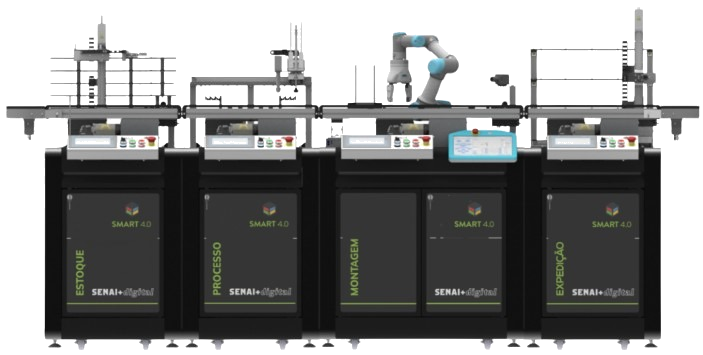
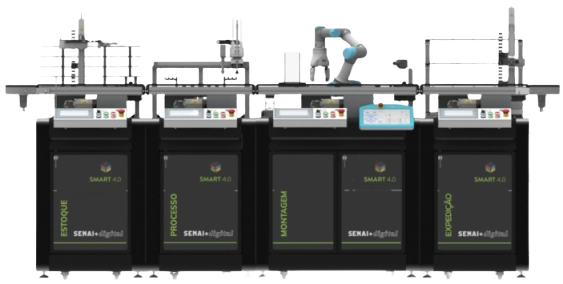
css da loja ajustado para as paletas de cores do resto do projeto

diff --git a/AppSmartWeb_Projeto/AppSmartWeb_Projeto-Base/loja-pedido/src/main/resources/templates/processo_bancada.html b/AppSmartWeb_Projeto/AppSmartWeb_Projeto-Base/loja-pedido/src/main/resources/templates/processo_bancada.html
@@ -1,70 +1,78 @@
 <!DOCTYPE html>
-<html lang="pt-br" xmlns:th="http://www.thymeleaf.org" >
+<html lang="pt-br" xmlns:th="http://www.thymeleaf.org">
 
 <head>
     <meta charset="UTF-8">
+    <meta name="viewport" content="width=device-width, initial-scale=1.0, maximum-scale=1.0">
     <title>Pedidos de Blocos</title>
     <link rel="stylesheet" th:href="@{/css/styleProcessoBancada.css}">
     <link rel="stylesheet" th:href="@{/css/headerIsolado.css}" href="/css/headerIsolado.css">
     <link rel="stylesheet" href="https://fonts.googleapis.com/css2?family=Material+Symbols+Rounded" />
     <link rel="stylesheet" href="https://cdnjs.cloudflare.com/ajax/libs/font-awesome/5.15.3/css/all.min.css">
+    <style>
+        /* Adicionando estilos inline para garantir as alterações */
+        .bancada-container img {
+            width: 90%;
+            max-width: 1200px;
+            height: auto;
+            margin: 10px auto;
+            display: block;
+        }
+        
+        .progress-shopee {
+            width: 95%;
+            max-width: 1200px;
+            margin: 20px auto;
+            box-sizing: border-box;
+        }
+        
+        body {
+            overflow-x: hidden;
+            padding-bottom: 20px;
+        }
+    </style>
 </head>
 
 <body>
 
- <!-- CABEÇALHO -->
- <header>
-    <div class="left-header">
-        <img src="fotosenai (1).png" alt="Logo Cubo">
-        <h1>Sistema de Gestão da Bancada</h1>
-    </div>
-    <div class="right-header">
-        <img src="senailogo.png" alt="Logo SENAI">
-    </div>
-    <div class="wifi-fixed">
-    <i class="fas fa-signal"></i> <!-- Ícone de barras de sinal -->
-    <span class="wifi-status">Desconectado</span>
-</div>
-</header>
+    <!-- CABEÇALHO -->
+    <header>
+        <div class="left-header">
+            <img src="fotosenai (1).png" alt="Logo Cubo">
+            <h1>Sistema de Gestão da Bancada</h1>
+        </div>
+        <div class="right-header">
+            <img src="senailogo.png" alt="Logo SENAI">
+        </div>
+        <div class="wifi-fixed">
+            <i class="fas fa-signal"></i> <!-- Ícone de barras de sinal -->
+            <span class="wifi-status">Desconectado</span>
+        </div>
+    </header>
 
     <div class="bancada-container">
-        <div class="bancada-item">
-                <img th:src="@{/image/Bancada_parte_1.png}" alt="Estoque">
-        </div>
-        <div class="bancada-item">
-                <img th:src="@{/image/Bancada_parte_2.png}" alt="Processo">
-        </div>
-
-        <div class="bancada-item">
-                <img th:src="@{/image/Bancada_parte_3.png}" alt="Montagem">
-        </div>
-
-        <div class="bancada-item">
-                <img th:src="@{/image/Bancada_parte_4.png}" alt="Expedição">
-        </div>
+        <img th:src="@{/image/bancada.png}" alt="bancada">
     </div>
 
-     <div class="barras-container">
-
+    <div class="barras-container">
         <div class="progress-shopee">
-
             <h3 class="progress-title">Montagem do Bloco</h3>
-        
             <div id="stepper" class="progress-stepper">
                 <!-- Etapas serão inseridas dinamicamente aqui -->
             </div>
-        
             <h4 class="progress-subtitle">Etapas Internas</h4>
             <div id="etapa-texto" class="etapa-texto">Iniciando...</div>
-        
         </div>
-                  <!-- BOTÃO VOLTAR - FLUTUANTE ACIMA DO ESTOQUE -->
-    <button class="btn-voltar-flutuante" onclick="window.location.href='/'">
-        <span class="material-symbols-rounded">arrow_back</span> Voltar
-    </button>
+        
+        <!-- BOTÃO VOLTAR - FLUTUANTE ACIMA DO ESTOQUE -->
+        <button class="btn-voltar-flutuante" onclick="window.location.href='/'">
+            <span class="material-symbols-rounded">arrow_back</span> Voltar
+        </button>
+    </div>
+    
     <script th:src="@{/js/processo_bancada.js}"></script>
     <script src="/js/statusConexao.js"></script>
 
 </body>
 
-</html>
+</html> 

diff --git a/AppSmartWeb_Projeto/AppSmartWeb_Projeto-Base/loja-pedido/src/main/resources/static/css/styleProcessoBancada.css b/AppSmartWeb_Projeto/AppSmartWeb_Projeto-Base/loja-pedido/src/main/resources/static/css/styleProcessoBancada.css
@@ -186,7 +186,7 @@ td {
     Barras de progresso
 ---------------------------------------- */
 .barras-container {
-    width: 80%;
+    width: 40%;
     margin: 10px auto;
     display: flex;
     flex-direction: column;
@@ -233,11 +233,17 @@ td {
     Containers e layout
 ---------------------------------------- */
 .bancada-container {
+    width: 40%;
     display: flex;
     justify-content: center;
-    align-items: flex-start;
-    gap: 2px;
-    flex-wrap: nowrap;
+    margin: 10px 0;
+}
+
+.bancada-container img {
+    width: 40%;
+    max-width: 1200px;
+    height: auto;
+    object-fit: contain;
 }
 
 .bancada-item {
@@ -393,8 +399,8 @@ header h1 {
 
 .progress-shopee {
     margin: 40px auto;
-    padding: 30px 25px;
-    max-width: 960px;
+    padding: 10px 15px;
+    max-width: 540px;
     background-color: #001f3f;
     /* azul escuro */
     border-radius: 16px;
@@ -405,14 +411,14 @@ header h1 {
 
 .progress-title {
     text-align: center;
-    font-size: 1.6rem;
+    font-size: 1.2rem;
     margin-bottom: 35px;
     color: #00aaff;
     /* azul claro Senai */
 }
 
 .progress-subtitle {
-    margin-top: 50px;
+    margin-top: 20px;
     font-size: 1.2rem;
     color: #66ccff;
     /* azul suave */
@@ -425,7 +431,6 @@ header h1 {
     align-items: flex-start;
     justify-content: space-between;
     flex-wrap: wrap;
-    gap: 20px;
     padding: 0 15px;
     margin-top: 10px;
 }
@@ -437,7 +442,7 @@ header h1 {
     text-align: center;
     flex: 1;
     position: relative;
-    min-width: 120px;
+    min-width: 60px;
 }
 
 .step::after {
@@ -486,7 +491,7 @@ header h1 {
 }
 
 .step p {
-    font-size: 0.9rem;
+    font-size: 0.8rem;
     max-width: 120px;
     line-height: 1.3;
     color: #cfd8dc;
@@ -516,3 +521,53 @@ header {
     align-items: center;
     gap: 0.5rem; /* 14px */
   }
+
+  /* Reduzir tamanho geral do container do progresso */
+.progress-shopee {
+    margin: 20px auto;
+    padding: 8px 12px;
+    max-width: 500px;
+    border-radius: 10px;
+}
+
+/* Reduzir o círculo de etapa */
+.circle {
+    width: 36px;
+    height: 36px;
+    font-size: 16px;
+    margin-bottom: 5px;
+}
+
+/* Diminuir o espaço entre as etapas */
+.step::after {
+    top: 16px;
+    height: 3px;
+}
+
+.step p {
+    font-size: 0.7rem;
+    max-width: 100px;
+}
+
+/* Título e subtítulo mais compactos */
+.progress-title,
+.progress-subtitle {
+    font-size: 1rem;
+}
+
+/* Caixa de texto da etapa menor */
+.etapa-texto {
+    font-size: 0.9rem;
+    padding: 10px 14px;
+    margin: 10px auto 0;
+    max-width: 480px;
+    border-radius: 8px;
+}
+
+/* Opcional: reduzir a barra de progresso */
+.barra-preenchida,
+#barraPrincipal,
+#barraSecundaria {
+    height: 24px;
+    line-height: 24px;
+}

diff --git a/AppSmartWeb_Projeto/AppSmartWeb_Projeto-Base/loja-pedido/src/main/resources/static/css/styleLoja.css b/AppSmartWeb_Projeto/AppSmartWeb_Projeto-Base/loja-pedido/src/main/resources/static/css/styleLoja.css
@@ -2,11 +2,12 @@
     --azul-primario: #1565c0;
     --azul-secundario: #0d47a1;
     --azul-escuro: #002b45;
-    --azul-medio: #003e60;
+    --azul-medio: #0337579a;
     --azul-claro: #dceffb;
     --branco: #ffffff;
     --cinza: #757575;
 }
+
 
 /* CABEÇALHO */
 header {
@@ -94,9 +95,10 @@ header h1 {
 }
 
 /* CORPO PRINCIPAL */
+/* CORPO PRINCIPAL */
 body {
     font-family: 'Segoe UI', Tahoma, Geneva, Verdana, sans-serif;
-    background: linear-gradient(135deg, var(--azul-escuro), var(--azul-primario));
+    background: linear-gradient(to right, #002654, #004080);
     color: var(--branco);
     margin: 0;
     padding: 0;
@@ -106,6 +108,7 @@ body {
 }
 
 .main-container {
+    height: fit-content;
     flex: 1;
     display: flex;
     justify-content: center;
@@ -117,15 +120,15 @@ body {
 }
 
 .container {
-    max-width: 1300px; /* 650px * 0.6 */
+    max-width: 1080px;
     width: 100%;
-    padding: 12px; /* 20px * 0.6 */
-    margin-top: 7px; /* 12px * 0.6 */
-    background: linear-gradient(135deg, #1a4b8c, #0d3a70);
-    border-radius: 5px; /* 8px * 0.6 */
-    box-shadow: 0 2.4px 7.2px rgba(0, 0, 0, 0.2); /* 4px 12px * 0.6 */
-    border: 0.6px solid var(--azul-primario);
-    font-size: 0.9em; /* Reduz tamanho da fonte proporcionalmente */
+    padding: 30px;
+    margin-top: 20px;
+    background: linear-gradient(135deg, #1a4b8c73, #0d3a70);
+    /* Azul mais claro e vibrante */
+    border-radius: 12px;
+    box-shadow: 0 6px 18px rgba(0, 0, 0, 0.2);
+    border: 1px solid var(--azul-primario);
 }
 
 h1,
@@ -503,6 +506,7 @@ hr {
 }
 
 .containerLoja .bloco {
+    margin-top: 15vh;
     position: relative;
     height: fit-content;
     top:20%;
@@ -765,6 +769,7 @@ header {
 }
 
 #flexMainContainer {
+    max-height: 10vh;
     display: flex;
     flex-direction: row;
     justify-content: center;

diff --git a/AppSmartWeb_Projeto/AppSmartWeb_Projeto-Base/loja-pedido/src/main/resources/templates/lista_pedido.html b/AppSmartWeb_Projeto/AppSmartWeb_Projeto-Base/loja-pedido/src/main/resources/templates/lista_pedido.html
@@ -89,7 +89,7 @@
             </div>
                 
             <!-- BOTÃO VOLTAR - FLUTUANTE ACIMA DO ESTOQUE -->
-        <button class="btn-voltar-flutuante" onclick="window.location.href='/'">
+        <button class="btn-voltar-flutuante" onclick="window.location.href='/pedidos'">
             <span class="material-symbols-rounded">arrow_back</span> Voltar
         </button>
         
